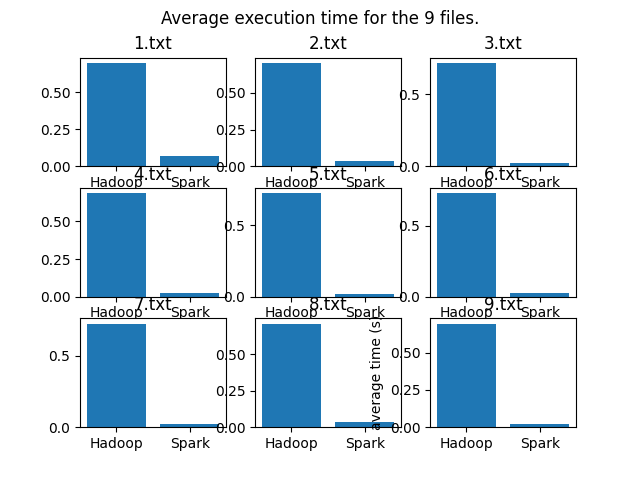
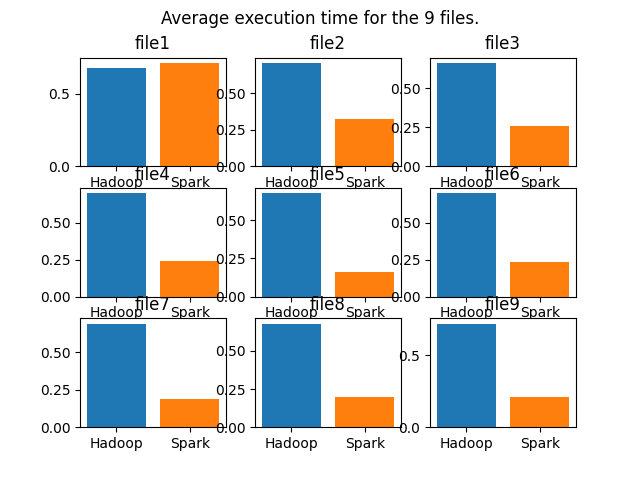
small changes plot graphes

diff --git a/src/process_results.py b/src/process_results.py
@@ -74,59 +74,62 @@ def plot_graphs(data_hadoop, data_spark):
     number_of_im = len(mean_real_hadoop)
     # Initialise the subplot function using number of rows and columns
     figure, axis = plt.subplots(3, 3)
+
     
-    y1 = [mean_real_hadoop[0], mean_real_spark[0]]
-    y2 = [mean_real_hadoop[1], mean_real_spark[1]]
-    y3 = [mean_real_hadoop[2], mean_real_spark[2]]
-    y4 = [mean_real_hadoop[3], mean_real_spark[3]]
-    y5 = [mean_real_hadoop[4], mean_real_spark[4]]
-    y6 = [mean_real_hadoop[5], mean_real_spark[5]]
-    y7 = [mean_real_hadoop[6], mean_real_spark[6]]
-    y8 = [mean_real_hadoop[7], mean_real_spark[7]]
-    y9 = [mean_real_hadoop[8], mean_real_spark[8]]
+    y1 = [mean_real_hadoop[0], mean_real_spark[0]*10]
+    y2 = [mean_real_hadoop[1], mean_real_spark[1]*10]
+    y3 = [mean_real_hadoop[2], mean_real_spark[2]*10]
+    y4 = [mean_real_hadoop[3], mean_real_spark[3]*10]
+    y5 = [mean_real_hadoop[4], mean_real_spark[4]*10]
+    y6 = [mean_real_hadoop[5], mean_real_spark[5]*10]
+    y7 = [mean_real_hadoop[6], mean_real_spark[6]*10]
+    y8 = [mean_real_hadoop[7], mean_real_spark[7]*10]
+    y9 = [mean_real_hadoop[8], mean_real_spark[8]*10]
     
     # For 1st file
-    axis[0, 0].bar(x, y1)
-    plt.ylabel('average time (s)')
-    axis[0, 0].set_title("1.txt")
+    bar_colors = ['tab:blue', 'tab:orange']
+    axis[0, 0].bar(x, y1, color=bar_colors)
+    #plt.ylabel('average time (s)')
+    axis[0, 0].set_title("file1")
     
     # For 2nd file
-    axis[0, 1].bar(x, y2)
-    axis[0, 1].set_title("2.txt")
+    axis[0, 1].bar(x, y2, color=bar_colors)
+    axis[0, 1].set_title("file2")
     
     # For 3rd file
-    axis[0, 2].bar(x, y3)
-    axis[0, 2].set_title("3.txt")
+    axis[0, 2].bar(x, y3, color=bar_colors)
+    axis[0, 2].set_title("file3")
 
     # For 4th file
-    axis[1, 0].bar(x, y4)
-    plt.ylabel('average time (s)')
-    axis[1, 0].set_title("4.txt")
+    axis[1, 0].bar(x, y4, color=bar_colors)
+    #plt.ylabel('average time (s)')
+    axis[1, 0].set_title("file4")
  
     # For 5th file
-    axis[1, 1].bar(x, y5)
-    axis[1, 1].set_title("5.txt")
+    axis[1, 1].bar(x, y5, color=bar_colors)
+    axis[1, 1].set_title("file5")
       
     # For 6th file
-    axis[1, 2].bar(x, y6)
-    axis[1, 2].set_title("6.txt")
+    axis[1, 2].bar(x, y6, color=bar_colors)
+    axis[1, 2].set_title("file6")
 
     # For 7th file
-    axis[2, 0].bar(x, y7)
-    plt.ylabel('average time (s)')
-    axis[2, 0].set_title("7.txt")
+    axis[2, 0].bar(x, y7, color=bar_colors)
+    #plt.ylabel('average time (s)')
+    axis[2, 0].set_title("file7")
 
     # For 8th file
-    axis[2, 1].bar(x, y8)
-    axis[2, 1].set_title("8.txt")
+    axis[2, 1].bar(x, y8, color=bar_colors)
+    axis[2, 1].set_title("file8")
 
     # For 9th file
-    axis[2, 2].bar(x, y9)
-    axis[2, 2].set_title("9.txt")
+    axis[2, 2].bar(x, y9, color=bar_colors)
+    axis[2, 2].set_title("file9")
 
     # Combine all the operations and display
     plt.suptitle("Average execution time for the 9 files.")
     plt.savefig(f"results/graphs/spark_hadoop.png")
+    plt.tight_layout()
     plt.show()
     
 

diff --git a/report.tex b/report.tex
@@ -60,12 +60,12 @@ In this part we compare the performance of hadoop and linux on a wordcount task,
 \noindent The results obtained show that Linux perform this task 58 times faster compared to Hadoop.
 
 \subsection{Hadoop vs. Spark}
-For this part, we compare the execution time of Hadoop and Spark on a dataset that contains 9 text files. We used Python (PySpark) as the programming language for Spark and Java for Hadoop. We ran the program 3 times for each text file and took the average time.Spark runtime result is multiplied by \textbf{100}.It should be noted that we did all the homework in standalone mode. The results are shown in Figure 3.
+For this part, we compare the execution time of Hadoop and Spark on a dataset that contains 9 text files. We used Python (PySpark) as the programming language for Spark and Java for Hadoop. We ran the program 3 times for each text file and took the average time.Spark runtime result is multiplied by \textbf{10}.It should be noted that we did all the homework in standalone mode. The results are shown in Figure 3.
 
 \begin{figure}[h]
   \centering
   \includegraphics[scale=0.65]{Hadoop vs spark.png}
-  \caption{Execution time of Hadoop (1xT) and Spark (100xT).}
+  \caption{Execution time of Hadoop (1xT) and Spark (10xT).}
   \label{fig:hadoop vs spark}
 \end{figure}
 It can be seen from figure 3 that the execution time is 100 times greater for Hadoop compared to Spark except for file 1(https://tinyurl.com/4vxdw3pa) which is approximately 50 times greater.\\
